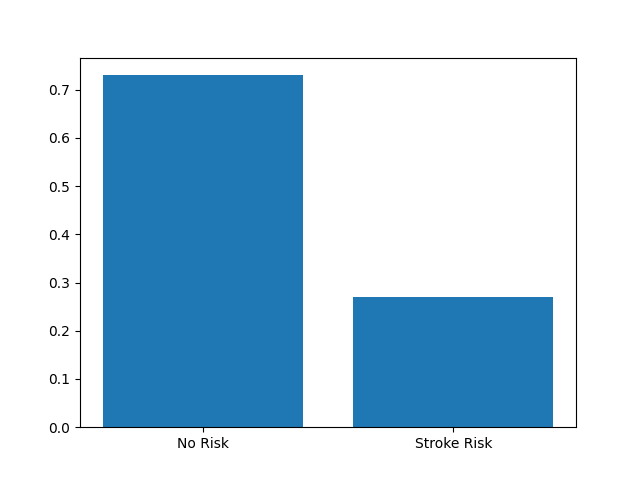
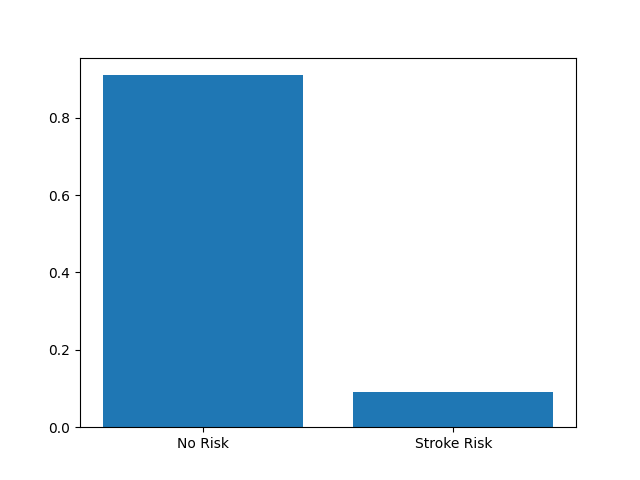
added vercel.json file and some bugs fixed

diff --git a/app/app.py b/app/app.py
@@ -347,5 +347,4 @@ def download_report():
 # ================= RUN =================
 
 if __name__ == "__main__":
-    app.run(debug=True)
-
+    app.run(host="0.0.0.0", port=5000)